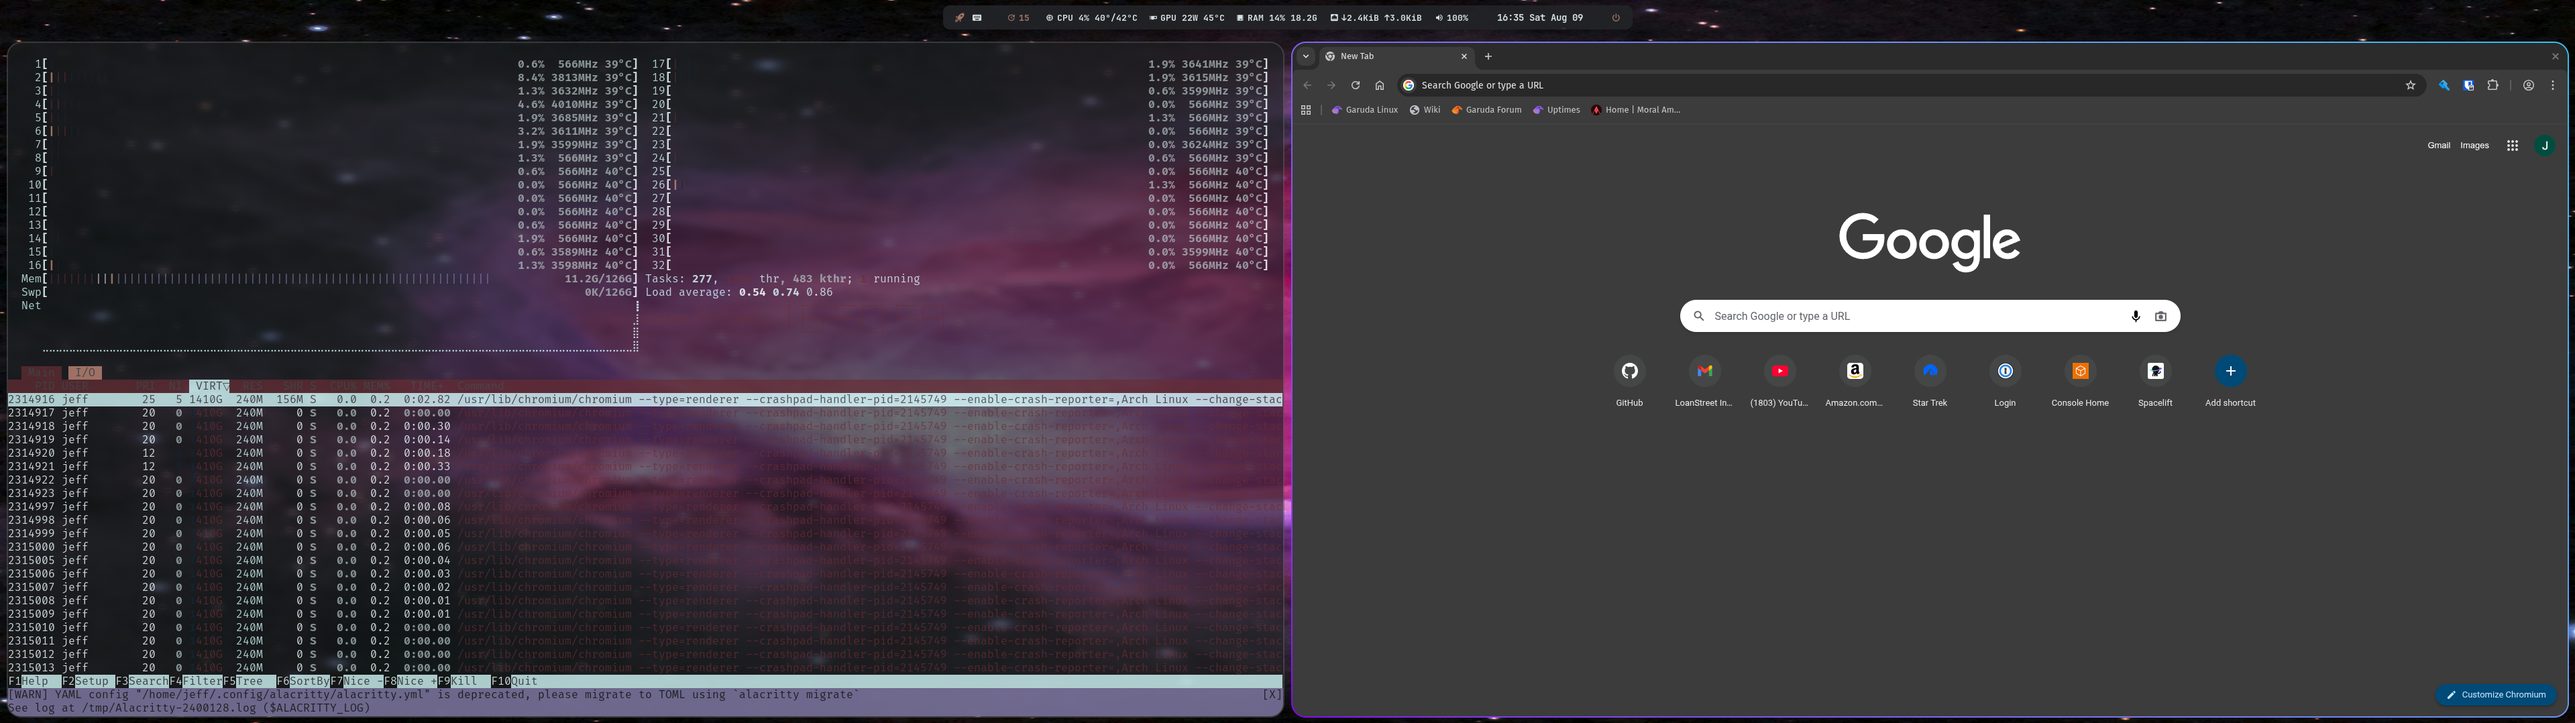
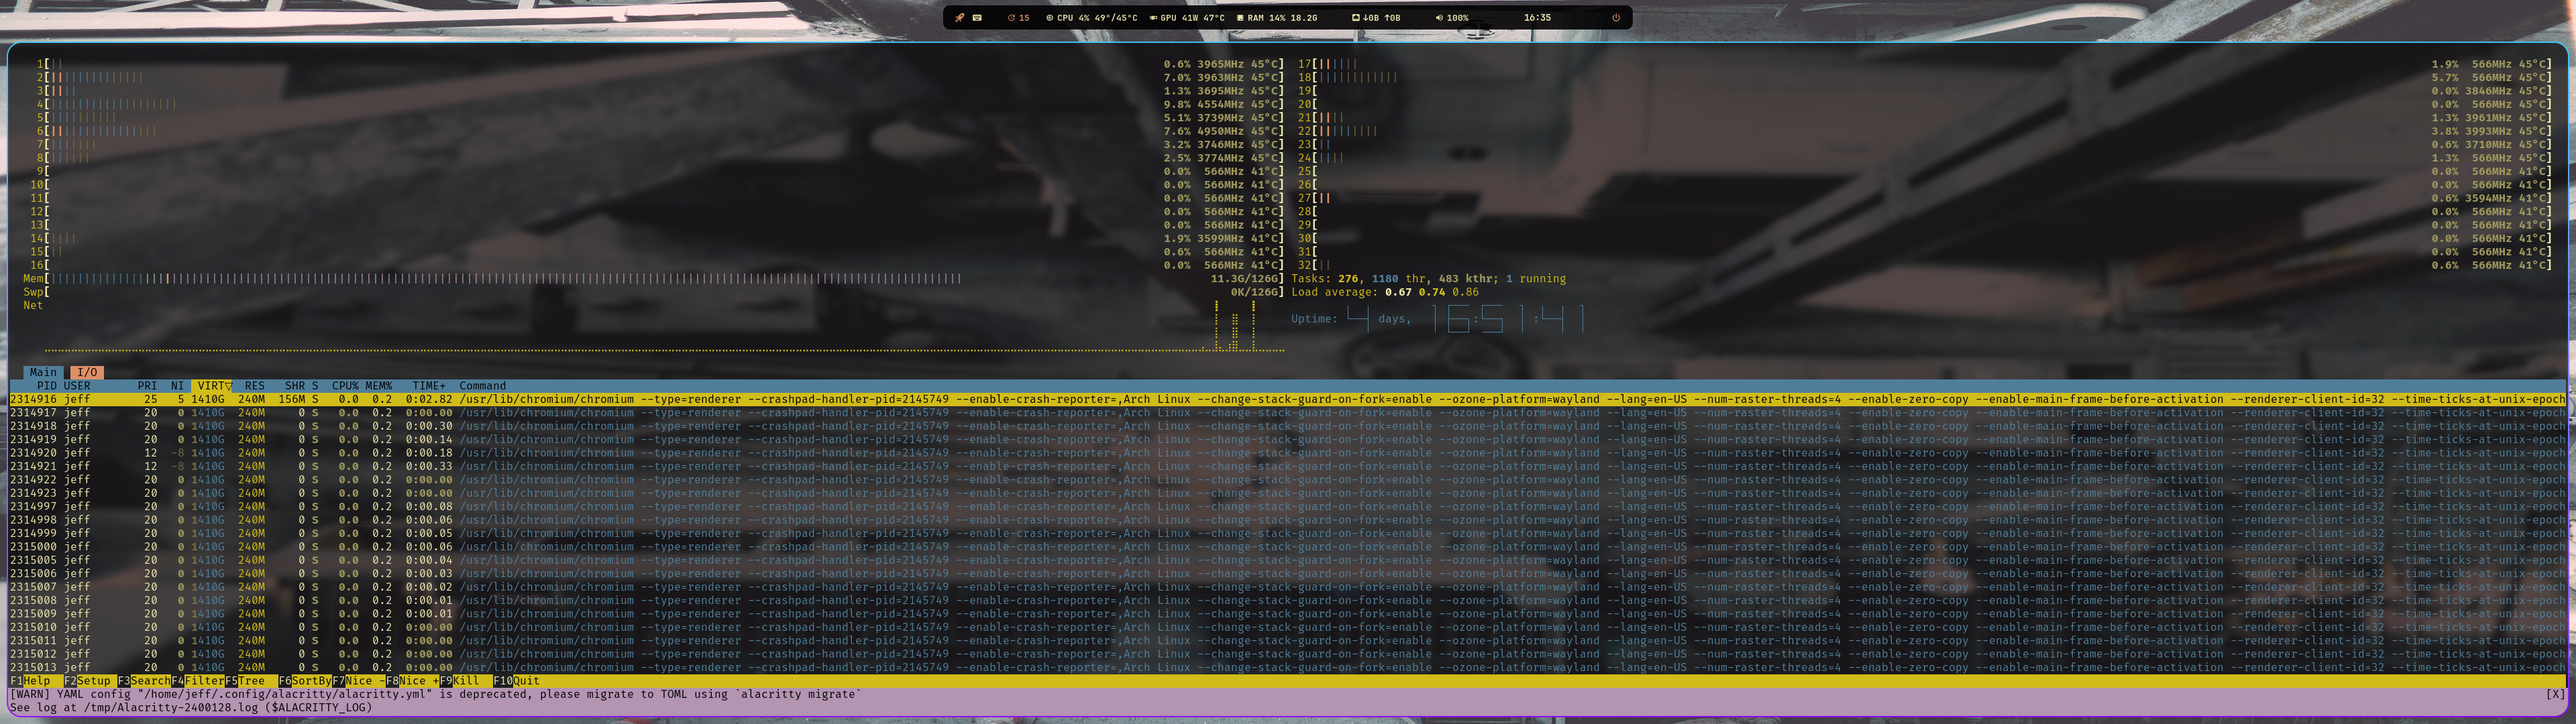
clean: Remove screenshots with browser windows
- Removed 3 screenshots containing Google browser windows
- Kept clean wallpaper examples and the GitHub project page
- Renumbered remaining screenshots (1-4) for consistency
- Gallery now shows only clean desktop examples

Remaining screenshots:
1. Ocean wallpaper (clean)
2. Dark artistic wallpaper (clean)
3. Terminal windows with bar
4. GitHub project page

diff --git a/SCREENSHOTS.md b/SCREENSHOTS.md
@@ -1,6 +1,6 @@
 # Screenshot Gallery
 
-A collection of examples showing how the bar adapts to different wallpapers.
+Examples showing the bar with different wallpapers and color adaptations.
 
 ![Example 1](screenshots/example-1.png)
 
@@ -10,12 +10,6 @@ A collection of examples showing how the bar adapts to different wallpapers.
 
 ![Example 4](screenshots/example-4.png)
 
-![Example 5](screenshots/example-5.png)
-
-![Example 6](screenshots/example-6.png)
-
-![Example 7](screenshots/example-7.png)
-
 ## About
 
-Each image shows the same bar with a different wallpaper. The color scheme is automatically extracted from the wallpaper using Wallust - no configuration needed. Change your wallpaper, and the bar instantly adapts with matching colors.
+Each image shows the bar with a different wallpaper. The color scheme is automatically extracted from the wallpaper using Wallust. Change your wallpaper, and the bar instantly adapts with matching colors.
